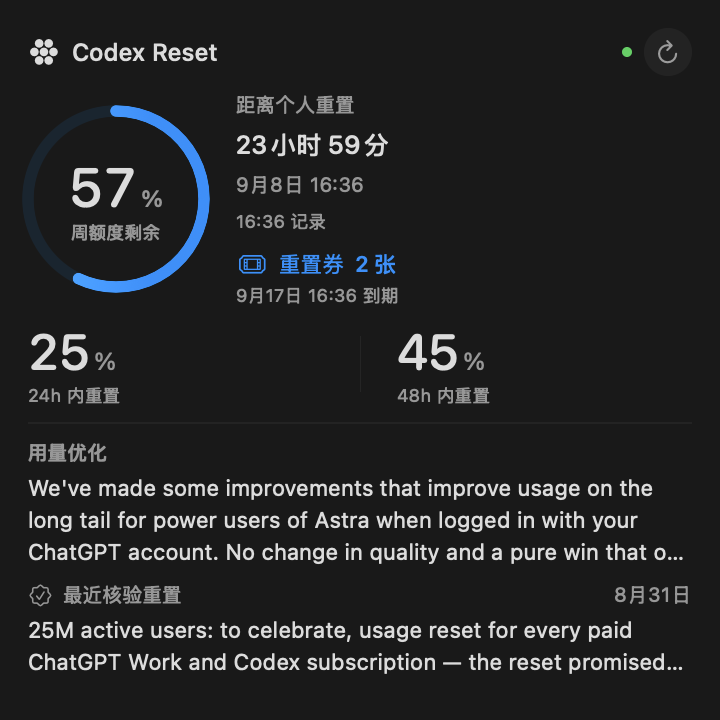
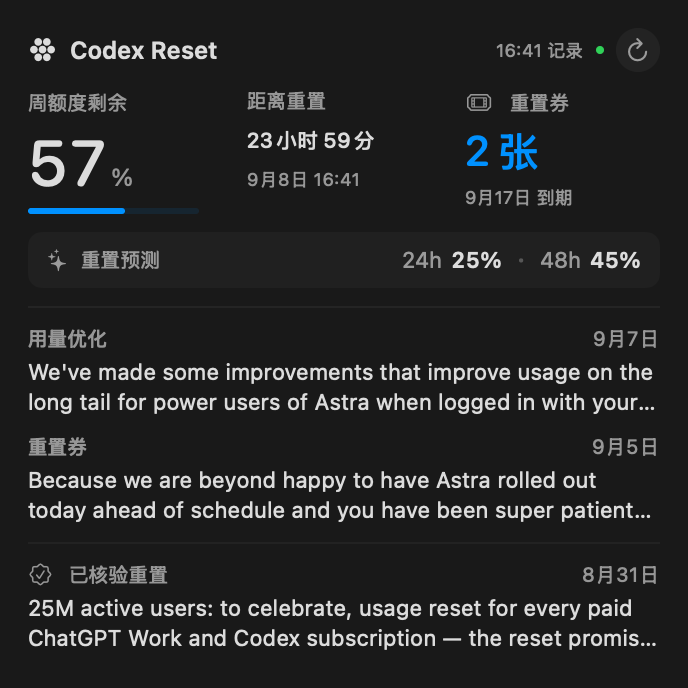
Reflow widgets into compact metric rows and dense news columns

diff --git a/Widget/CodexResetWidget.swift b/Widget/CodexResetWidget.swift
@@ -54,169 +54,168 @@ struct ResetWidgetView: View {
     let entry: ResetEntry
     @Environment(\.widgetFamily) private var family
     private var extraLarge: Bool { family == .systemExtraLarge }
-    private var posts: [Post] { Array(ResetPresentation.highlights(entry.snapshot.feed).prefix(2)) }
-    private var events: [ResetEvent] { Array(ResetPresentation.verified(entry.snapshot.history).prefix(2)) }
-    private var percent: Double? { entry.personal.isConfigured ? entry.personal.remainingPercent : nil }
+    private var posts: [Post] { Array(ResetPresentation.highlights(entry.snapshot.feed).prefix(extraLarge ? 3 : 2)) }
+    private var events: [ResetEvent] { Array(ResetPresentation.verified(entry.snapshot.history).prefix(extraLarge ? 3 : 1)) }
 
     var body: some View {
-        VStack(alignment: .leading, spacing: 8) {
-            HStack(spacing: 6) {
-                Image(systemName: "circle.hexagongrid.fill").font(.system(size: 13, weight: .medium))
-                Text("Codex Reset").font(.system(size: 12, weight: .medium))
-                Spacer()
-                Circle().fill(entry.snapshot.isStale(at: entry.date) ? Color.orange : Color.green).frame(width: 5, height: 5)
-                Button(intent: RefreshResetWidgetIntent()) {
-                    Image(systemName: "arrow.clockwise")
-                        .font(.system(size: 11, weight: .medium))
-                        .foregroundStyle(.secondary)
-                        .frame(width: 24, height: 24)
-                        .background(.primary.opacity(0.05), in: Circle())
+        VStack(alignment: .leading, spacing: 9) {
+            header
+            HStack(alignment: .top, spacing: 12) {
+                usageMetric
+                countdownMetric
+                creditMetric
+                if extraLarge {
+                    forecastMetric(entry.snapshot.forecast?.probabilities.rounded_24h, label: "24h 重置概率")
+                    forecastMetric(entry.snapshot.forecast?.probabilities.rounded_48h, label: "48h 重置概率")
                 }
-                .buttonStyle(.plain)
-                .accessibilityLabel("刷新公告、历史和预测")
-                .help("刷新公告、历史与预测；个人用量使用最近同步记录")
             }
+            if !extraLarge { forecastStrip }
+            Divider().opacity(0.5)
             if extraLarge {
-                HStack(alignment: .top, spacing: 16) {
-                    expandedMetrics.frame(width: 250)
-                    Rectangle().fill(.primary.opacity(0.07)).frame(width: 0.5)
-                    expandedNews.frame(maxWidth: .infinity, alignment: .leading)
-                }.frame(maxHeight: .infinity)
+                HStack(alignment: .top, spacing: 20) {
+                    news.frame(maxWidth: .infinity, alignment: .leading)
+                    Rectangle().fill(.primary.opacity(0.06)).frame(width: 0.5)
+                    history.frame(maxWidth: .infinity, alignment: .leading)
+                }.frame(maxHeight: .infinity, alignment: .top)
             } else {
-                compactContent
+                news
+                Divider().opacity(0.4)
+                history
             }
         }
         .frame(maxWidth: .infinity, maxHeight: .infinity, alignment: .topLeading)
         .padding(14)
         .containerBackground(for: .widget) {
-            Rectangle().fill(.background)
-                .overlay {
-                    LinearGradient(colors: [.blue.opacity(0.07), .clear, .primary.opacity(0.025)], startPoint: .topLeading, endPoint: .bottomTrailing)
-                }
+            Rectangle().fill(.background).overlay {
+                LinearGradient(colors: [.blue.opacity(0.06), .clear, .primary.opacity(0.02)], startPoint: .topLeading, endPoint: .bottomTrailing)
+            }
         }
         .widgetURL(URL(string: "codexreset://open"))
     }
 
-    private var compactContent: some View {
-        VStack(alignment: .leading, spacing: 8) {
-            HStack(spacing: 16) {
-                QuotaRing(percent: percent, size: 88)
-                resetCountdown
-            }
-            probabilities
-            Divider().opacity(0.45)
-            if let post = posts.first {
-                VStack(alignment: .leading, spacing: 4) {
-                    Text(ResetPresentation.category(post.kind)).font(.system(size: 10, weight: .semibold)).foregroundStyle(.secondary)
-                    Text(post.text.split(whereSeparator: \.isWhitespace).joined(separator: " ")).font(.system(size: 11, weight: .regular)).lineSpacing(2).lineLimit(4)
-                }
-            }
-            if let event = events.first, let date = event.announced_at {
-                VStack(alignment: .leading, spacing: 4) {
-                    HStack(spacing: 5) {
-                        Image(systemName: "checkmark.seal").font(.system(size: 10))
-                        Text("最近核验重置")
-                        Spacer()
-                        Text(date, format: .dateTime.month().day())
-                    }.font(.system(size: 10)).foregroundStyle(.secondary)
-                    Text(event.summary).font(.system(size: 11)).lineSpacing(2).lineLimit(2)
-                }
-            }
-        }
-    }
-
-    private var expandedMetrics: some View {
-        VStack(alignment: .leading, spacing: 12) {
-            HStack(spacing: 12) {
-                QuotaRing(percent: percent, size: 108)
-                resetCountdown
-            }
-            probabilities.padding(.vertical, 4)
-            if let date = entry.snapshot.forecast?.last_reset_at {
-                VStack(alignment: .leading, spacing: 5) {
-                    SectionCaption(title: "最近一次全局重置")
-                    Text(date, format: .dateTime.month().day().hour().minute())
-                        .font(.system(size: 12, weight: .medium))
-                }
-            }
-        }
-    }
-
-    private var resetCountdown: some View {
-        VStack(alignment: .leading, spacing: 6) {
-            Text("距离个人重置").font(.system(size: 10)).foregroundStyle(.secondary)
-            Text(entry.personal.isConfigured ? entry.personal.needsUpdate(at: entry.date) ? "等待更新" : ResetPresentation.countdown(to: entry.personal.resetAt, from: entry.date) : "连接 Codex")
-                .font(.system(size: extraLarge ? 15 : 17, weight: .medium, design: .rounded))
-                .lineLimit(1).minimumScaleFactor(0.75)
-            if entry.personal.isConfigured {
-                Text(entry.personal.resetAt, format: .dateTime.month().day().hour().minute())
-                    .font(.system(size: 10)).foregroundStyle(.secondary)
-            }
+    private var header: some View {
+        HStack(spacing: 6) {
+            Image(systemName: "circle.hexagongrid.fill").font(.system(size: 12))
+            Text("Codex Reset").font(.system(size: 12, weight: .semibold))
+            Spacer()
             if let recorded = entry.personal.recordedAt {
-                Text("\(recorded.formatted(date: .omitted, time: .shortened)) 记录\(entry.personal.isOld(at: entry.date) ? " · 待更新" : "")")
+                Text("\(recorded.formatted(date: .omitted, time: .shortened)) 记录")
                     .font(.system(size: 9)).foregroundStyle(entry.personal.isOld(at: entry.date) ? Color.orange : .secondary)
             }
-            VStack(alignment: .leading, spacing: 3) {
-                HStack(spacing: 5) {
-                    Image(systemName: "ticket")
-                    Text("重置券")
-                    Text(entry.credits.count(at: entry.date).map { "\($0) 张" } ?? "未同步").fontWeight(.semibold)
-                }.font(.system(size: 11)).foregroundStyle(.blue)
-                if entry.credits.isStale(at: entry.date), entry.credits.fetchedAt != nil {
-                    Text("记录待更新").foregroundStyle(.orange)
-                } else if let expiry = entry.credits.nextExpiry(at: entry.date) {
-                    Text("\(expiry.formatted(.dateTime.month().day().hour().minute())) 到期").foregroundStyle(.secondary)
-                }
-            }
-            .font(.system(size: 9))
-            .padding(.top, 3)
-            .help(entry.credits.fetchedAt.map { "重置券同步于 \($0.formatted())" } ?? "尚未读取重置券")
-        }.frame(maxWidth: .infinity, alignment: .leading)
-    }
-
-    private var probabilities: some View {
-        HStack(spacing: 0) {
-            probability(entry.snapshot.forecast?.probabilities.rounded_24h, label: "24h 内重置")
-            Rectangle().fill(.primary.opacity(0.06)).frame(width: 0.5, height: 28).padding(.horizontal, 18)
-            probability(entry.snapshot.forecast?.probabilities.rounded_48h, label: "48h 内重置")
+            Circle().fill(entry.snapshot.isStale(at: entry.date) ? Color.orange : Color.green).frame(width: 4, height: 4)
+            Button(intent: RefreshResetWidgetIntent()) {
+                Image(systemName: "arrow.clockwise").font(.system(size: 11, weight: .medium))
+                    .foregroundStyle(.secondary).frame(width: 22, height: 22)
+                    .background(.primary.opacity(0.05), in: Circle())
+            }.buttonStyle(.plain).accessibilityLabel("刷新公告、历史和预测")
+                .help("刷新公告、历史与预测；个人用量使用最近同步记录")
         }
     }
 
-    private func probability(_ value: Int?, label: String) -> some View {
-        VStack(alignment: .leading, spacing: 2) {
+    private var usageMetric: some View {
+        VStack(alignment: .leading, spacing: 4) {
+            caption("周额度剩余")
             HStack(alignment: .firstTextBaseline, spacing: 1) {
-                Text(value.map(String.init) ?? "—").font(.system(size: 25, weight: .medium, design: .rounded))
-                if value != nil { Text("%").font(.system(size: 12)).foregroundStyle(.secondary) }
+                Text(entry.personal.isConfigured ? "\(Int(entry.personal.remainingPercent))" : "—")
+                    .font(.system(size: 32, weight: .medium, design: .rounded))
+                if entry.personal.isConfigured { Text("%").font(.system(size: 12)).foregroundStyle(.secondary) }
             }.monospacedDigit()
-            Text(label).font(.system(size: 9)).foregroundStyle(.secondary)
+            GeometryReader { geometry in
+                Capsule().fill(.blue.opacity(0.1)).overlay(alignment: .leading) {
+                    Capsule().fill(.blue).frame(width: geometry.size.width * (entry.personal.isConfigured ? entry.personal.remainingPercent / 100 : 0))
+                }
+            }.frame(height: 3).padding(.trailing, 12)
         }.frame(maxWidth: .infinity, alignment: .leading)
     }
 
-    private var expandedNews: some View {
-        VStack(alignment: .leading, spacing: 8) {
-            SectionCaption(title: "最新动态")
-            ForEach(posts) { post in
-                VStack(alignment: .leading, spacing: 4) {
+    private var countdownMetric: some View {
+        VStack(alignment: .leading, spacing: 7) {
+            caption("距离重置")
+            Text(entry.personal.isConfigured ? entry.personal.needsUpdate(at: entry.date) ? "待更新" : ResetPresentation.countdown(to: entry.personal.resetAt, from: entry.date) : "未连接")
+                .font(.system(size: 15, weight: .medium, design: .rounded)).lineLimit(1).minimumScaleFactor(0.7)
+            if entry.personal.isConfigured {
+                Text(entry.personal.resetAt, format: .dateTime.month().day().hour().minute())
+                    .font(.system(size: 9)).foregroundStyle(.secondary).lineLimit(1).minimumScaleFactor(0.8)
+            }
+        }.frame(maxWidth: .infinity, alignment: .leading)
+    }
+
+    private var creditMetric: some View {
+        VStack(alignment: .leading, spacing: 5) {
+            Label("重置券", systemImage: "ticket").font(.system(size: 10)).foregroundStyle(.secondary)
+            Text(entry.credits.count(at: entry.date).map { "\($0) 张" } ?? "未同步")
+                .font(.system(size: 21, weight: .medium, design: .rounded)).foregroundStyle(.blue)
+            if entry.credits.isStale(at: entry.date), entry.credits.fetchedAt != nil {
+                Text("记录待更新").font(.system(size: 9)).foregroundStyle(.orange)
+            } else if let expiry = entry.credits.nextExpiry(at: entry.date) {
+                Text("\(expiry.formatted(.dateTime.month().day())) 到期")
+                    .font(.system(size: 9)).foregroundStyle(.secondary).lineLimit(1)
+            }
+        }.frame(maxWidth: .infinity, alignment: .leading)
+            .help(entry.credits.nextExpiry(at: entry.date).map { "最近到期：\($0.formatted())" } ?? "暂无到期明细")
+    }
+
+    private var forecastStrip: some View {
+        HStack(spacing: 6) {
+            Image(systemName: "sparkles").font(.system(size: 10)).foregroundStyle(.secondary)
+            Text("重置预测").font(.system(size: 10)).foregroundStyle(.secondary)
+            Spacer(minLength: 4)
+            inlineProbability(entry.snapshot.forecast?.probabilities.rounded_24h, label: "24h")
+            Text("·").foregroundStyle(.tertiary)
+            inlineProbability(entry.snapshot.forecast?.probabilities.rounded_48h, label: "48h")
+        }.padding(.horizontal, 9).padding(.vertical, 6)
+            .background(.primary.opacity(0.035), in: RoundedRectangle(cornerRadius: 7))
+    }
+
+    private func inlineProbability(_ value: Int?, label: String) -> some View {
+        HStack(spacing: 4) {
+            Text(label).foregroundStyle(.secondary)
+            Text(value.map { "\($0)%" } ?? "—").fontWeight(.semibold).monospacedDigit()
+        }.font(.system(size: 11))
+    }
+
+    private func forecastMetric(_ value: Int?, label: String) -> some View {
+        VStack(alignment: .leading, spacing: 5) {
+            caption(label)
+            Text(value.map { "\($0)%" } ?? "—").font(.system(size: 25, weight: .medium, design: .rounded)).monospacedDigit()
+        }.frame(maxWidth: .infinity, alignment: .leading)
+    }
+
+    private var news: some View {
+        VStack(alignment: .leading, spacing: 9) {
+            if extraLarge { caption("最新动态") }
+            ForEach(Array(posts.enumerated()), id: \.element.id) { index, post in
+                VStack(alignment: .leading, spacing: 3) {
                     HStack {
                         Text(ResetPresentation.category(post.kind)).fontWeight(.medium)
                         Spacer()
                         Text(post.at, format: .dateTime.month().day())
                     }.font(.system(size: 10)).foregroundStyle(.secondary)
-                    Text(post.text.split(whereSeparator: \.isWhitespace).joined(separator: " ")).font(.system(size: 12, weight: .regular)).lineSpacing(2).lineLimit(3)
-                }
-            }
-            Divider().opacity(0.45)
-            SectionCaption(title: "已核验的重置")
-            ForEach(events) { event in
-                HStack(alignment: .top, spacing: 12) {
-                    if let date = event.announced_at {
-                        Text(date, format: .dateTime.month().day()).font(.system(size: 10, weight: .medium))
-                            .foregroundStyle(.secondary).frame(width: 45, alignment: .leading)
-                    }
-                    Text(event.summary).font(.system(size: 11, weight: .regular)).lineSpacing(2).lineLimit(3)
+                    Text(post.text.split(whereSeparator: \.isWhitespace).joined(separator: " "))
+                        .font(.system(size: 11)).lineSpacing(1).lineLimit(extraLarge ? 3 : index == 0 ? 3 : 2)
                 }
             }
         }
+    }
+
+    private var history: some View {
+        VStack(alignment: .leading, spacing: 9) {
+            if extraLarge { caption("已核验的重置") }
+            ForEach(events) { event in
+                VStack(alignment: .leading, spacing: 3) {
+                    HStack {
+                        Label("已核验重置", systemImage: "checkmark.seal")
+                        Spacer()
+                        if let date = event.announced_at { Text(date, format: .dateTime.month().day()) }
+                    }.font(.system(size: 10)).foregroundStyle(.secondary)
+                    Text(event.summary).font(.system(size: 11)).lineSpacing(1).lineLimit(extraLarge ? 3 : 2)
+                }
+            }
+        }
+    }
+
+    private func caption(_ text: String) -> some View {
+        Text(text).font(.system(size: 10)).foregroundStyle(.secondary)
     }
 }
 

diff --git a/README.md b/README.md
@@ -8,10 +8,10 @@
 - **历史重置**：展示重置记录，区分站点已核验的归档和待核验动态。
 - **概率预测**：展示站点计算的未来 24 / 48 小时重置概率与低置信度提示。
 - **个人周用量**：只读连接本机 Codex 的用量记录，提取已用百分比、重置时间和记录时间；也可手动填写。通过 App Group 与小组件共享，到期后等待新记录，不自动假定额度恢复。
-- **大号**：额度环、重置倒计时、双窗口预测、重点公告和最近核验日期。
-- **超大号**：左侧显示个人用量与预测，右侧展示 2 条重点公告和 2 条核验记录。点击打开主应用。
+- **大号**：个人用量、重置倒计时和重置券横向排列，预测合并为一行，下方显示 2 条重点公告和 1 条核验记录。
+- **超大号**：顶栏横向排列全部指标，下方双栏各显示 3 条重点公告和 3 条核验记录。点击打开主应用。
 - 原生侧栏分为概览、公告、重置历史；概览筛选重置/用量相关动态，公告页可切换全部/重点，历史页可切换已核验/全部。浅色与深色跟随系统。
-- 个人重置时间下方展示重置券可用数量与最近到期时间，未知数据展示“未同步”，同步失败或超过 15 分钟展示“待更新”。
+- 重置券独立一栏展示可用数量与最近到期日期，完整到期时间可悬停查看；未知数据展示“未同步”，同步失败或超过 15 分钟展示“待更新”。
 
 ## 界面预览
 
